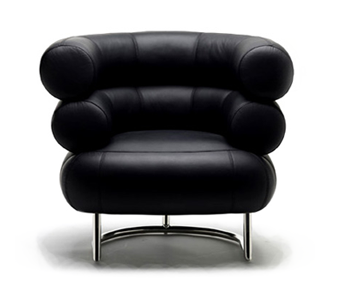
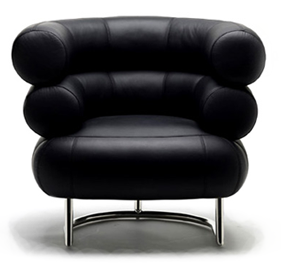
kolejne poprawki strony

diff --git a/css/style.css b/css/style.css
@@ -68,30 +68,29 @@ header{
 	display: inline-block;
 }
 
-#container_header{
-	width: 850px;
-	height: 500px;
-	margin: auto;
-	position: relative;
-	display: inline-block;
+#leftarrow > p{
+	font-size: 80px;
+	color: #24b89d;
+	text-align: center;
+	padding-top: 180px;
 }
 
 #blackchair{
-	width: 500px;
-	height: 400px;
+	padding-top: 100px;
+	width: 350px;
+	height: 350px;
 	float: left;
-	position: absolute;
-	top: 60px;
+	margin-left: 30px;
+	display: inline-block;
 }
 
 #text{
+	padding-top: 80px;
 	width: 450px;
 	height: 400px;
-	float: right;
-	margin-left: auto;
-	position: absolute;
-	top: 120px;
-	left: 650px;
+	float: left;
+	margin-left: 60px;
+	display: inline-block;
 }
 
 #bigtext{
@@ -119,15 +118,12 @@ header{
 	color: white;
 	width: 270px;
 	height: 60px;
-	vertical-align: middle;
 	margin: auto;
 	text-transform: uppercase;
 	text-align: center;
 	vertical-align: middle;
 	line-height: 60px;
-
 }
-
 
 #rightarrow{
 	width: 150px;
@@ -135,6 +131,13 @@ header{
 	float: right;
 	margin: auto;
 	display: inline-block;
+}
+
+#rightarrow > p{
+	font-size: 80px;
+	color: #24b89d;
+	text-align: center;
+	padding-top: 180px;
 }
 
 
@@ -151,11 +154,53 @@ section{
 	margin-top: 30px;
 	margin-right: 30px;
 	float: left;
+	position: relative;
 }
 
 #box1{
 	margin-left: 65px;
 }
+
+#chair1{
+	width: 330px;
+	height: 65px;
+	z-index: 1;
+	position: absolute;
+	bottom: -120px;
+	left: 130px;
+	font-weight: bold;
+	background-color: #fff;
+	opacity: 0.5;
+}
+
+#chair1 > p{
+	margin-top: 15px;
+	font-size: 16px;
+	width: 140px;
+	border-bottom: 7px solid #24b89d;
+	margin-left: 15px;
+}
+
+#chair2{
+	width: 330px;
+	height: 65px;
+	z-index: 1;
+	position: absolute;
+	bottom: -120px;
+	left: 490px;
+	font-weight: bold;
+	background-color: #fff;
+	opacity: 0.5;
+}
+
+#chair2 > p{
+	margin-top: 15px;
+	font-size: 16px;
+	width: 140px;
+	border-bottom: 7px solid #24b89d;
+	margin-left: 15px;
+}
+
 
 #box_section{
 	width: 300px;
@@ -402,7 +447,7 @@ footer{
 	width: 400px;
 	height: 80px;
 	float: left;
-	font-size: 24px;
+	font-size: 20px;
 	margin-left: 10px;
 	margin-top: 30px;
 	margin-bottom: 10px;
@@ -411,7 +456,8 @@ footer{
 #form_ok{
 	float: left;
 	border: 1px solid #27c7ab;
-	padding: 5px;
+	padding: 5px 5px 3px 0;
+	margin-right: 10px;
 }
 
 #submit{
@@ -429,17 +475,27 @@ footer{
 
 #foot_of_footer{
 	margin-top: 100px;
+	width: 100%;
+}
+
+#copyright{
+	display: inline-block;
+	width: 750px;
+	float: left;
 }
 
 #social_links{
-	float: right;
+	float: left;
 	display: inline-block;
+	width: 200px;
 }
 
 #footer_logo{
 	float: right;
 	text-transform: uppercase;
 	display: inline-block;
+	width: 230px;
+	font-size: 20px;
 }
 
 #footer_logo > span{

diff --git a/index.html b/index.html
@@ -16,20 +16,20 @@
 			</ul>
 	</nav>
 	<header>
-		<div id="leftarrow"></div>
-		<div id="container_header">
-			<img id="blackchair" src="images/black_chair_m.png"></div>
-			<div id="text">
-				<div id="bigtext">Sit <span> on </span>our<span> chair</span></div>
-				<div id="text2">Lorem ipsum dolor sit amet, consectetur adipiscing elit. Fusce ac dui iaculis, lacinia dui eget, maximus mi. Suspendisse eu ullamcorper lacus. Suspendisse porta tinci Suspendisse eu ullamcorper lacus.</div>
-				<div id="button">Zobacz więcej</div>
-			</div>
+		<div id="leftarrow"><p> < </p></div>
+		<img id="blackchair" src="images/black_chair_m.png"></div>
+		<div id="text">
+			<div id="bigtext">Sit <span> on </span>our<span> chair</span></div>
+			<div id="text2">Lorem ipsum dolor sit amet, consectetur adipiscing elit. Fusce ac dui iaculis, lacinia dui eget, maximus mi. Suspendisse eu ullamcorper lacus. Suspendisse porta tinci Suspendisse eu ullamcorper lacus.</div>
+			<div id="button">Zobacz więcej</div>
 		</div>
-		<div id="rightarrow"></div>
+		<div id="rightarrow"><p> > </p></div>
 	</header>
 	<section>
 		<img id="box1" src="images/box1_img.jpg">
+		<div id="chair1"><p>Chair CLAIR</p></div>
 		<img id="box2" src="images/box2_img.jpg">
+		<div id="chair2"><p>Chair MARGARITA</p></div>
 		<div id="box_section">
 			<div id="title">Finds all inputs</div>
 			<p id="text3">Find all inputs that are not checked and highlights the next sibling span. Notice there is no change when clicking the checkboxes since no click events heve been linked.</br></br>Notice there is no change when clicking the checkboxes since no click events heve been linked.</p>
